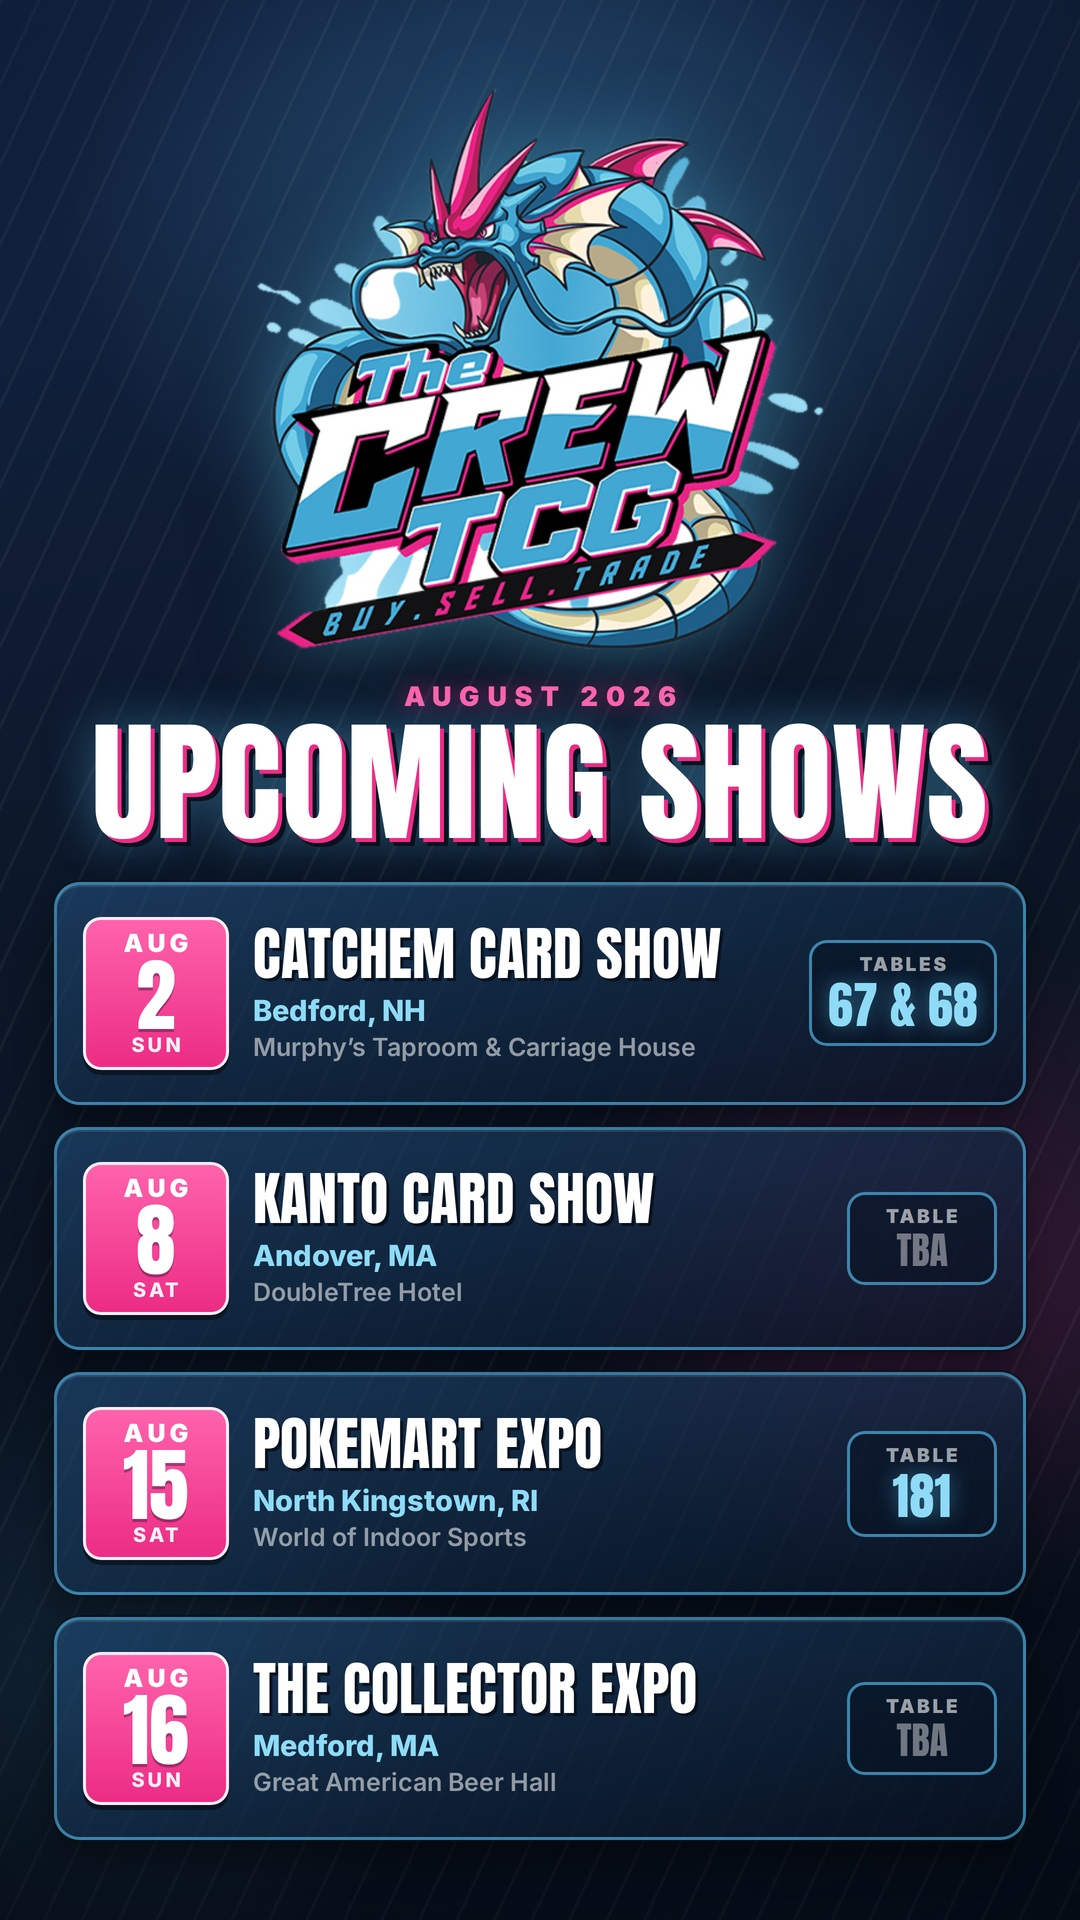
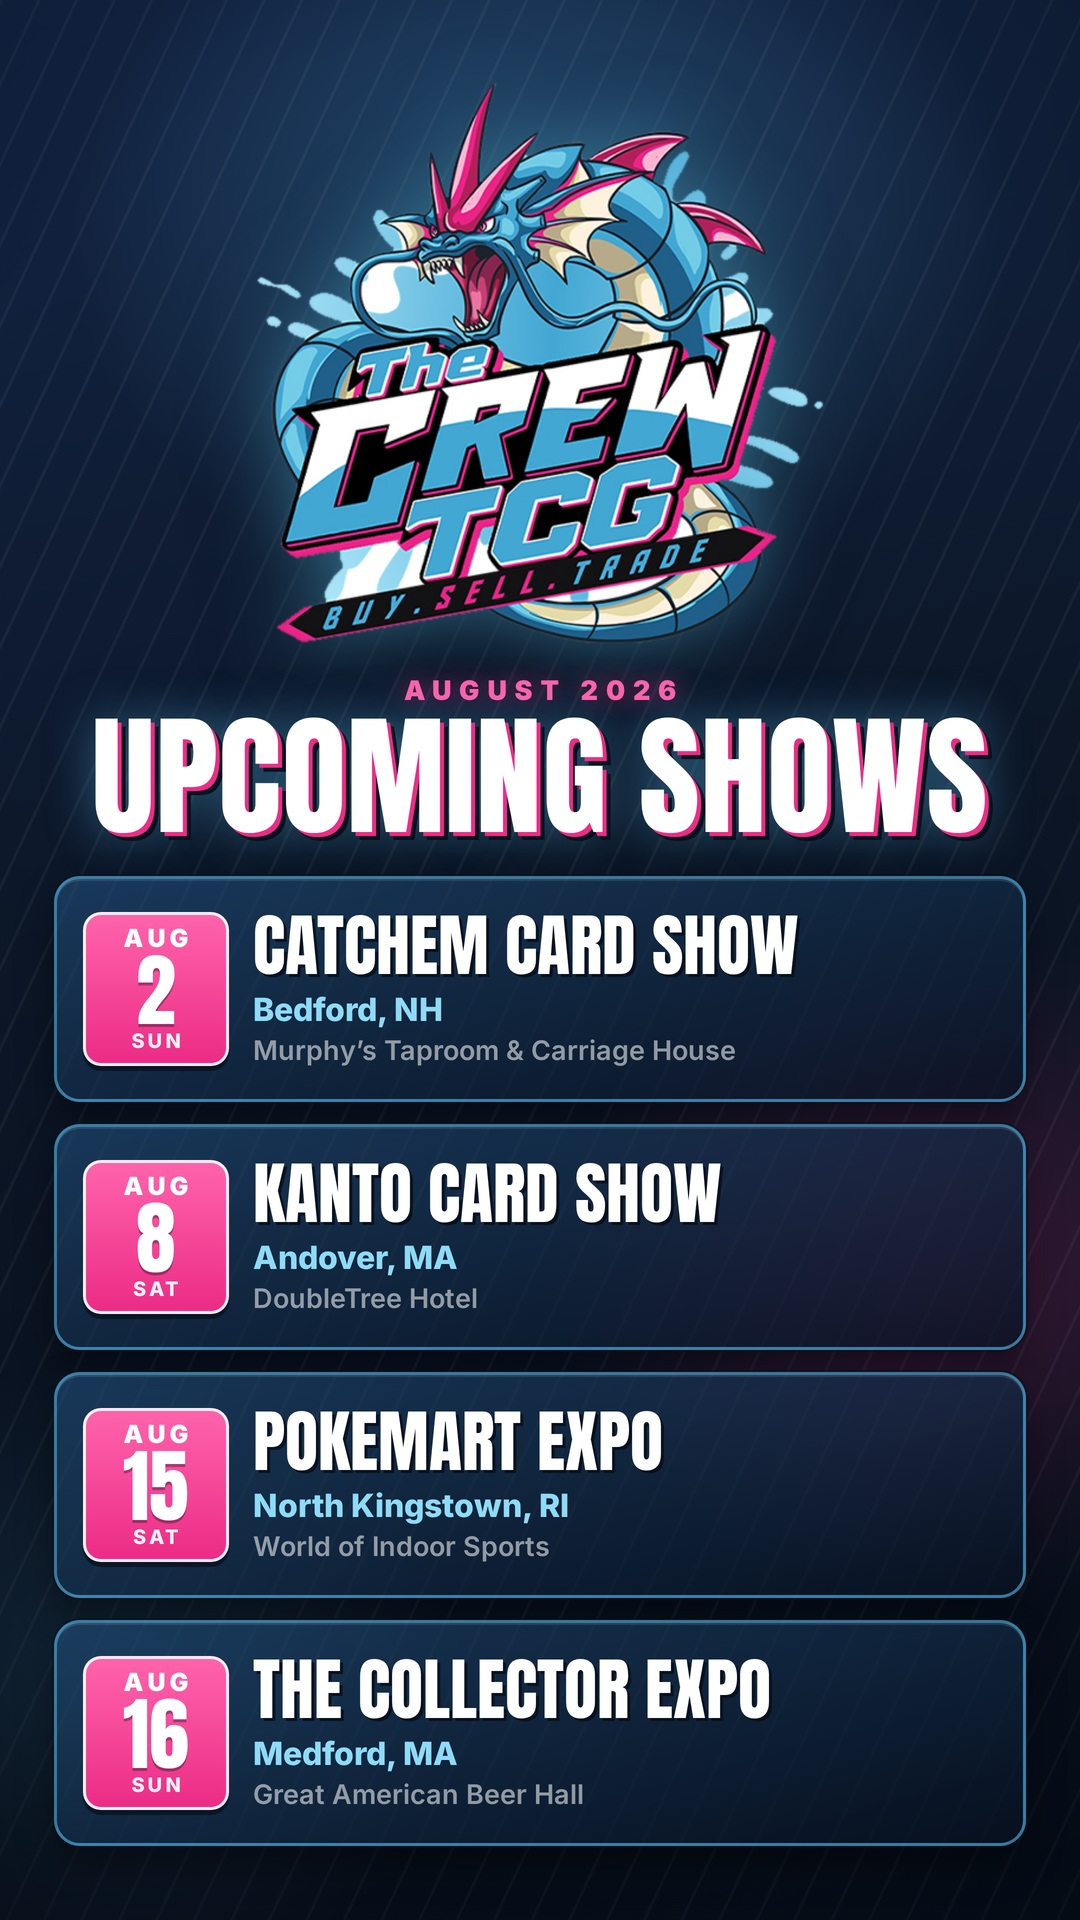
Remove table numbers from upcoming shows post
Drops the table chip from each row, along with its now-unused styles.
Scales the show name, city and venue up into the reclaimed width so
each row still fills the card.

Claude-Session: https://claude.ai/code/session_01GrrccXG3rbm8dyPJ87oBq8

diff --git a/ads/crew-tcg-upcoming-shows.html b/ads/crew-tcg-upcoming-shows.html
@@ -78,29 +78,12 @@
 /* show details */
 .info{flex:1;min-width:0}
 .show-name{
-  font-family:'Anton',sans-serif;font-size:58px;line-height:1.0;text-transform:uppercase;color:#fff;
+  font-family:'Anton',sans-serif;font-size:68px;line-height:1.0;text-transform:uppercase;color:#fff;
   text-shadow:3px 3px 0 rgba(8,16,28,.9);
 }
-.show-loc{margin-top:10px;font-weight:800;font-size:29px;color:var(--blue-lt)}
-.show-venue{margin-top:4px;font-weight:600;font-size:25px;color:rgba(255,255,255,.55)}
+.show-loc{margin-top:11px;font-weight:800;font-size:32px;color:var(--blue-lt)}
+.show-venue{margin-top:5px;font-weight:600;font-size:27px;color:rgba(255,255,255,.55)}
 
-/* table chip */
-.tbl{
-  flex:0 0 auto;text-align:center;min-width:150px;
-  border:3px solid rgba(84,180,228,.7);border-radius:18px;
-  background:rgba(8,18,34,.55);
-  padding:10px 16px 12px;
-}
-.tbl .lab{
-  display:block;font-weight:900;font-size:19px;letter-spacing:.13em;text-indent:.13em;
-  text-transform:uppercase;color:rgba(255,255,255,.6);
-}
-.tbl .num{
-  display:block;margin-top:2px;
-  font-family:'Anton',sans-serif;font-size:50px;line-height:1.06;color:var(--blue-lt);
-  text-shadow:0 0 20px rgba(84,180,228,.5);
-}
-.tbl.tba .num{font-size:38px;color:rgba(255,255,255,.42);text-shadow:none}
 </style>
 
 <div class="stage">
@@ -118,7 +101,6 @@
         <div class="show-loc">Bedford, NH</div>
         <div class="show-venue">Murphy&#8217;s Taproom &amp; Carriage House</div>
       </div>
-      <div class="tbl"><span class="lab">Tables</span><span class="num">67 &amp; 68</span></div>
     </div>
 
     <div class="show">
@@ -128,7 +110,6 @@
         <div class="show-loc">Andover, MA</div>
         <div class="show-venue">DoubleTree Hotel</div>
       </div>
-      <div class="tbl tba"><span class="lab">Table</span><span class="num">TBA</span></div>
     </div>
 
     <div class="show">
@@ -138,7 +119,6 @@
         <div class="show-loc">North Kingstown, RI</div>
         <div class="show-venue">World of Indoor Sports</div>
       </div>
-      <div class="tbl"><span class="lab">Table</span><span class="num">181</span></div>
     </div>
 
     <div class="show">
@@ -148,7 +128,6 @@
         <div class="show-loc">Medford, MA</div>
         <div class="show-venue">Great American Beer Hall</div>
       </div>
-      <div class="tbl tba"><span class="lab">Table</span><span class="num">TBA</span></div>
     </div>
 
   </div>
